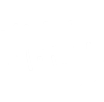
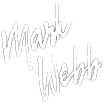
z

diff --git a/talks.html b/talks.html
@@ -80,7 +80,7 @@
         <p>loading...</p>
     </div>
 
-    <script src="scripts/loading.js"></script>
+    <!-- <script src="scripts/loading.js"></script> -->
 
     <a id="access-button" href="access.html">
         <img src="images/icons/access.svg"></img>
@@ -100,7 +100,7 @@
     </header>
     <img class="hr" src="images/hr.png"></img>
     <main>
-        <div class="sideimageleft">
+        <!-- <div class="sideimageleft">
             <img id = "bgimg" src="images/content/thebeardybloke.png" alt="The Beardy Bloke">
             <img id = "bgimg" src="images/content/thecattybloke.png" alt="The Catty Bloke">
             <img id = "bgimg" src="images/content/thedoggybloke.png" alt="The Doggy Bloke">
@@ -117,8 +117,8 @@
             <img id = "bgimg" src="images/content/theboatybloke.png" alt="The Boaty Bloke">
             <img id = "bgimg" src="images/content/thetoilettybloke.png" alt="The Toiletty Bloke">
             <img id = "bgimg" src="images/content/thefatheryblokeandthedaughterybloke.png" alt="The Fathery Bloke and the Daughtery Bloke">
-        </div>
-        <div class="difconvs">
+        </div> -->
+        <!-- <div class="difconvs">
             <h1>Difficult Conversations</h1>
             <h2>- This programme is a talk for schools and groups of people aged 16+.</h2>
             <h2>- The programme talks about deep topics such as mental health, violence etc.</h2>
@@ -157,27 +157,39 @@
             <span class="dot" onclick="current(1)"></span>
             <span class="dot" onclick="current(2)"></span>
             <span class="dot" onclick="current(3)"></span>
-        </div>
-        <footer>
-            <img style="transform: angle(180deg)" class="hr" src="images/hr.png"></img>
-            
-            <div class="socials">
-                <a href="https://www.instagram.com/thebeardybloke110">
-                    <img src="images/icons/logos/instagram.svg"></img>
-                </a>
-    
-                <a href="https://www.instagram.com/thebeardybloke110">
-                    <img src="images/icons/logos/instagram.svg"></img>
-                </a>
-    
-                <a href="https://www.instagram.com/thebeardybloke110">
-                    <img src="images/icons/logos/instagram.svg"></img>
-                </a>
-            </div>
-    
-            <p>© Mark Webb, 2025</p>
-        </footer>
+        </div> -->
+
+        <h1>Difficult Conversations</h1>
+        <p>
+            I deliver a half or full-day programme called "Difficult Conversations", which includes live poetry readings that provoke thought and discussion.
+        </p>
+
+        <h2>Pricing</h2>
+        
+
+
+        
     </main>
+
+    <footer>
+        <img class="hr" src="images/hr.png"></img>
+        <img class="signature" src="images/content/signature.png"></img>
+        <div class="socials">
+            <a href="https://www.instagram.com/thebeardybloke110">
+                <img src="images/icons/logos/instagram.svg"></img>
+            </a>
+
+            <a href="https://www.instagram.com/thebeardybloke110">
+                <img src="images/icons/logos/instagram.svg"></img>
+            </a>
+
+            <a href="https://www.instagram.com/thebeardybloke110">
+                <img src="images/icons/logos/instagram.svg"></img>
+            </a>
+        </div>
+
+        <p>© Mark Webb, 2025</p>
+    </footer>
 </body>
 <script>
     const imgs = document.querySelectorAll('[id = "bgimg"]')
@@ -217,4 +229,5 @@
         if (auto==true){setTimeout(() => review(index), 5000);}
     }
 </script>
+
 </html>

diff --git a/styles/footer.css b/styles/footer.css
@@ -8,6 +8,7 @@ footer {
 footer .signature {
     margin: 1em 0;
     filter: brightness(var(--brightness));
+    max-height: 100px;
     object-fit: fill;
 }
 
